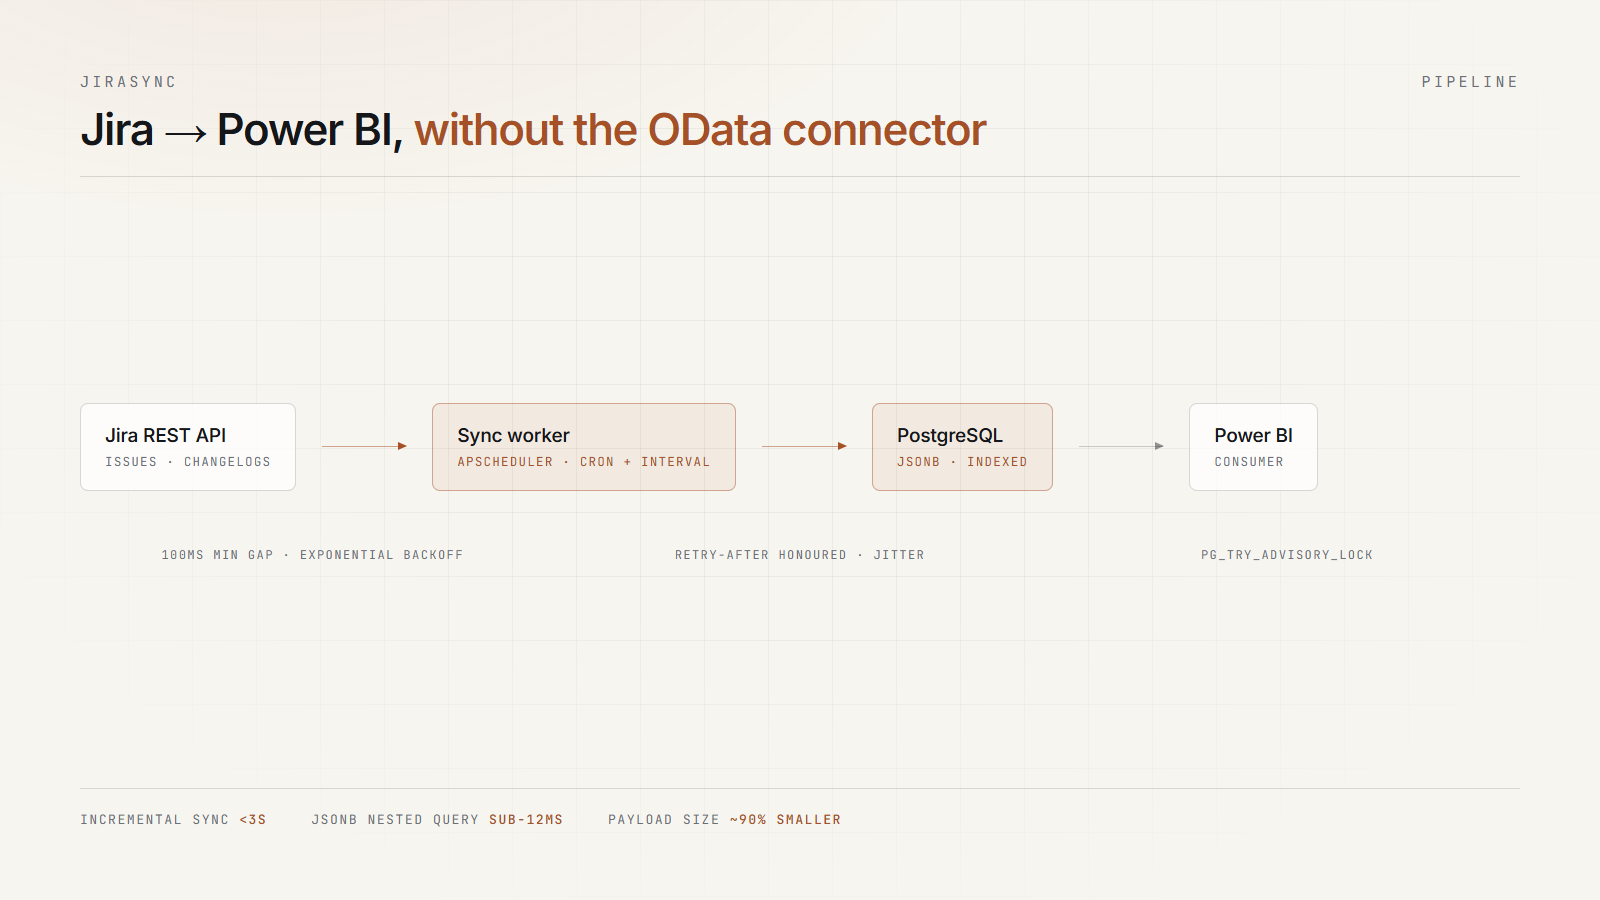
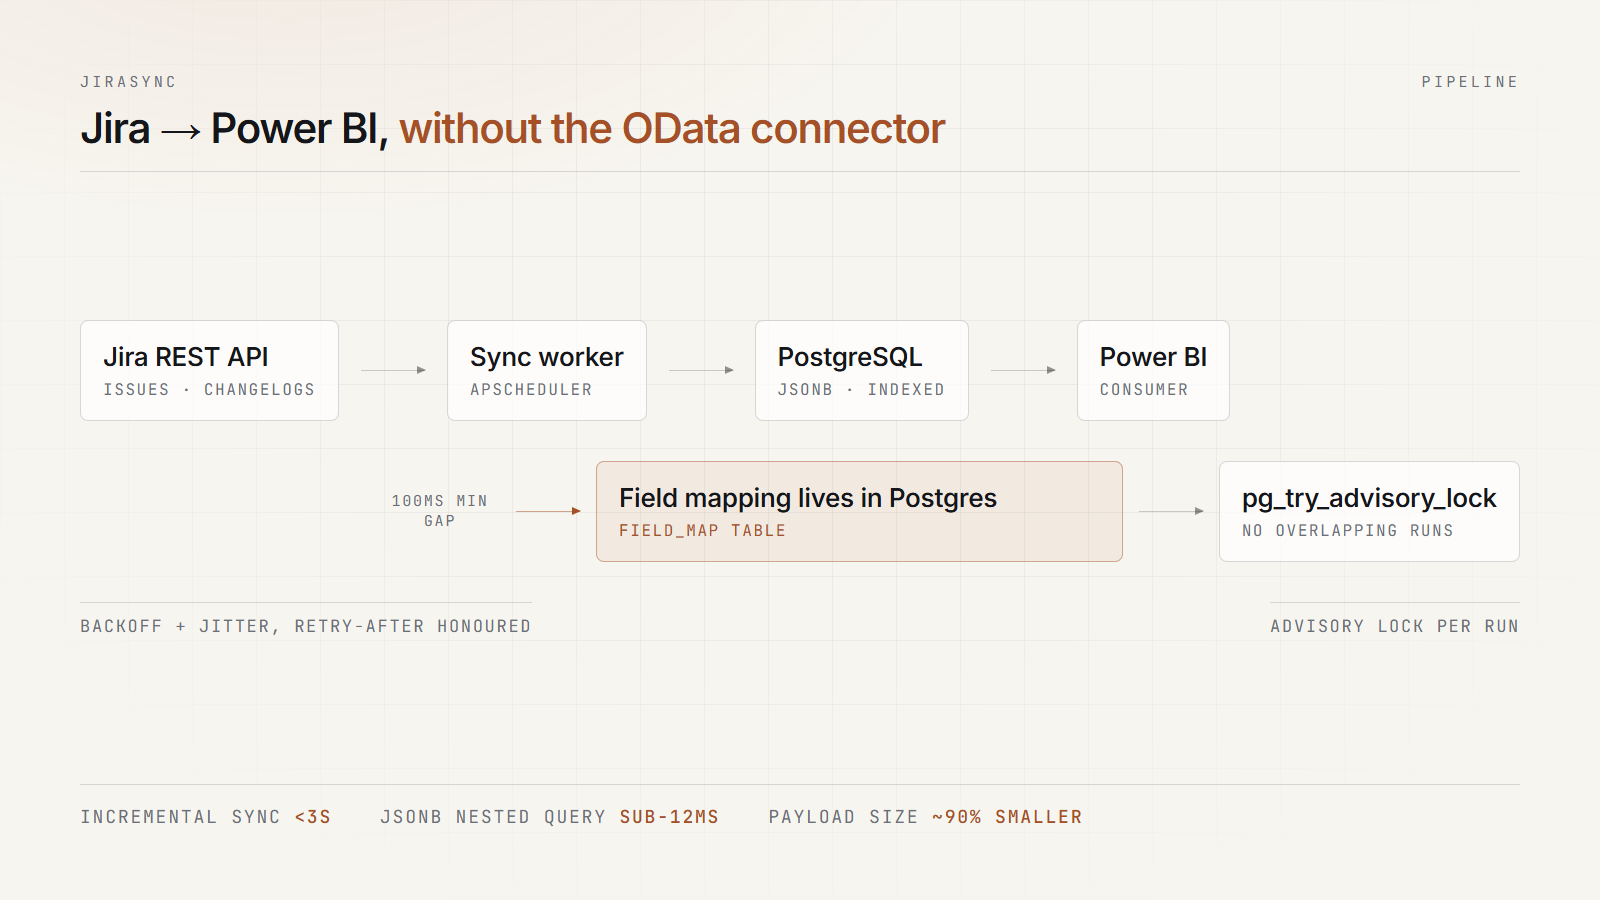
Use architecture diagrams for every project, grounded in each repo
Mixed screenshots and diagrams implied some projects were deployed and others
were not. All four now share one diagram template, in dark and light.

Verified against the code rather than the resume:
- CareerSync: Caddy TLS, FastAPI + SQLAlchemy/psycopg2, pgvector, streamed Groq
  inference over SSE, semantic cache, 28,016 backend lines, 72 endpoints, 304 tests
- Document handler: nginx → uvicorn:8000, async SQLAlchemy, concurrent presigned
  S3 URLs, redis.asyncio, 5,089 lines, 36 endpoints
- JiraSync: APScheduler, JSONB indexes, pg_try_advisory_lock, 100ms pacing
- YourPDF: Next 16 → nginx → FastAPI in-request, Ghostscript/Tesseract/OCRmyPDF,
  27 tool routes, zero background jobs

Copy corrected to the measured numbers so the bullets and the diagrams agree.
Screenshots removed; live and code links unchanged.

diff --git a/app/page.tsx b/app/page.tsx
@@ -197,13 +197,13 @@ export default function Page() {
                           }
                         >
                           <figcaption>
-                            <span>{project.liveUrl ? "Live product" : "System diagram"}</span>
+                            <span>System diagram</span>
                             <span className="proj__cover-meta">{project.alias}</span>
                           </figcaption>
                           <div
                             className="proj__shot"
                             role="img"
-                            aria-label={`${project.name} — ${project.liveUrl ? "product interface" : "system diagram"}`}
+                            aria-label={`${project.name} — system architecture diagram`}
                           />
                         </figure>
                       ) : null}
